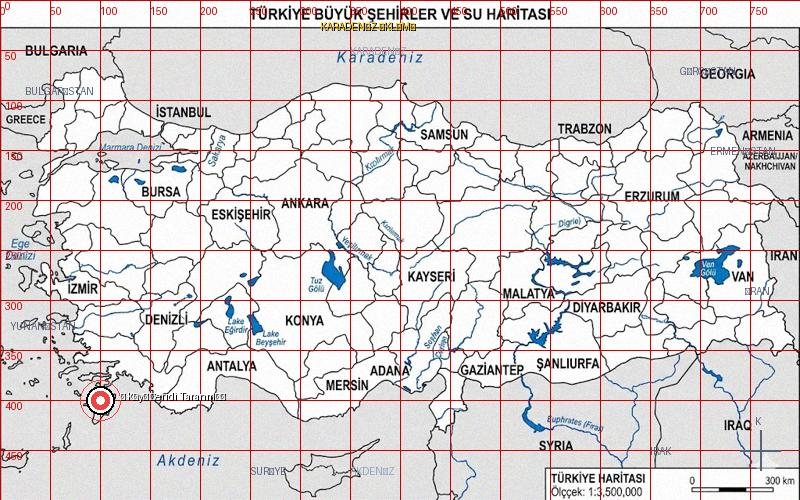
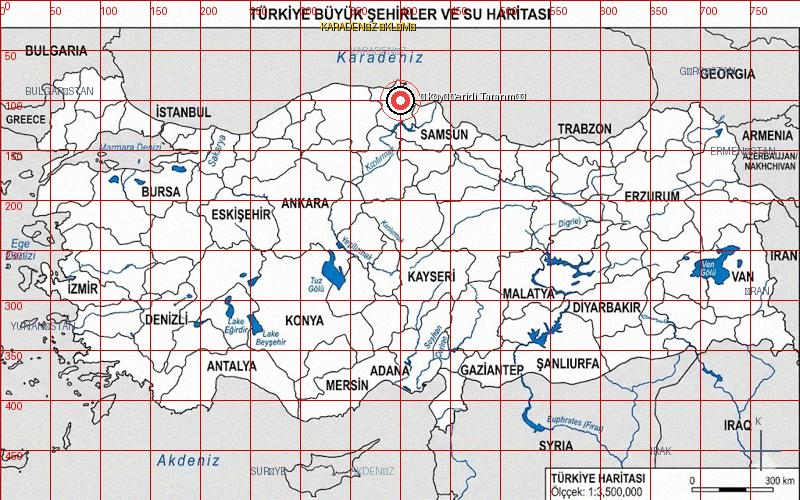
Auto-update maps: 2026-04-03 17:00:31

Changed region(s): [[0.4688, 0.15, 0.6562, 0.24], [0.0938, 0.75, 0.2812, 0.84]]

diff --git a/download_assets.py b/download_assets.py
@@ -21,7 +21,7 @@ def download_kpss_images():
             "bg_color": (15, 23, 42)
         },
         "tr_delta.jpg": {
-            "label": "DELTA OVALARI", "marker": (350, 400), "info": "Çukurova Bölgesi", 
+            "label": "DELTA OVALARI", "marker": (400, 380), "info": "Çukurova Bölgesi", 
             "type": "circle", "color": (34, 197, 94),
             "bg_color": (10, 20, 15)
         },
@@ -31,17 +31,17 @@ def download_kpss_images():
             "bg_color": (25, 15, 15)
         },
         "tr_bor.jpg": {
-            "label": "BOR REZERVLERİ", "marker": (160, 150), "info": "Güney Marmara-Eskişehir", 
+            "label": "BOR REZERVLERİ", "marker": (150, 160), "info": "Güney Marmara-Eskişehir", 
             "type": "square", "color": (234, 179, 8),
             "bg_color": (20, 20, 30)
         },
         "tr_petrol.jpg": {
-            "label": "PETROL YATAKLARI", "marker": (330, 650), "info": "Batman ve Çevresi", 
+            "label": "PETROL YATAKLARI", "marker": (650, 330), "info": "Batman ve Çevresi", 
             "type": "diamond", "color": (71, 85, 105),
             "bg_color": (10, 10, 10)
         },
         "tr_iklim.jpg": {
-            "label": "KARADENİZ İKLİMİ", "marker": (100, 400), "info": "Kıyı Şeridi Taranmış", 
+            "label": "KARADENİZ İKLİMİ", "marker": (400, 100), "info": "Kıyı Şeridi Taranmış", 
             "type": "circle", "color": (239, 68, 68),
             "bg_color": (15, 25, 35)
         }
